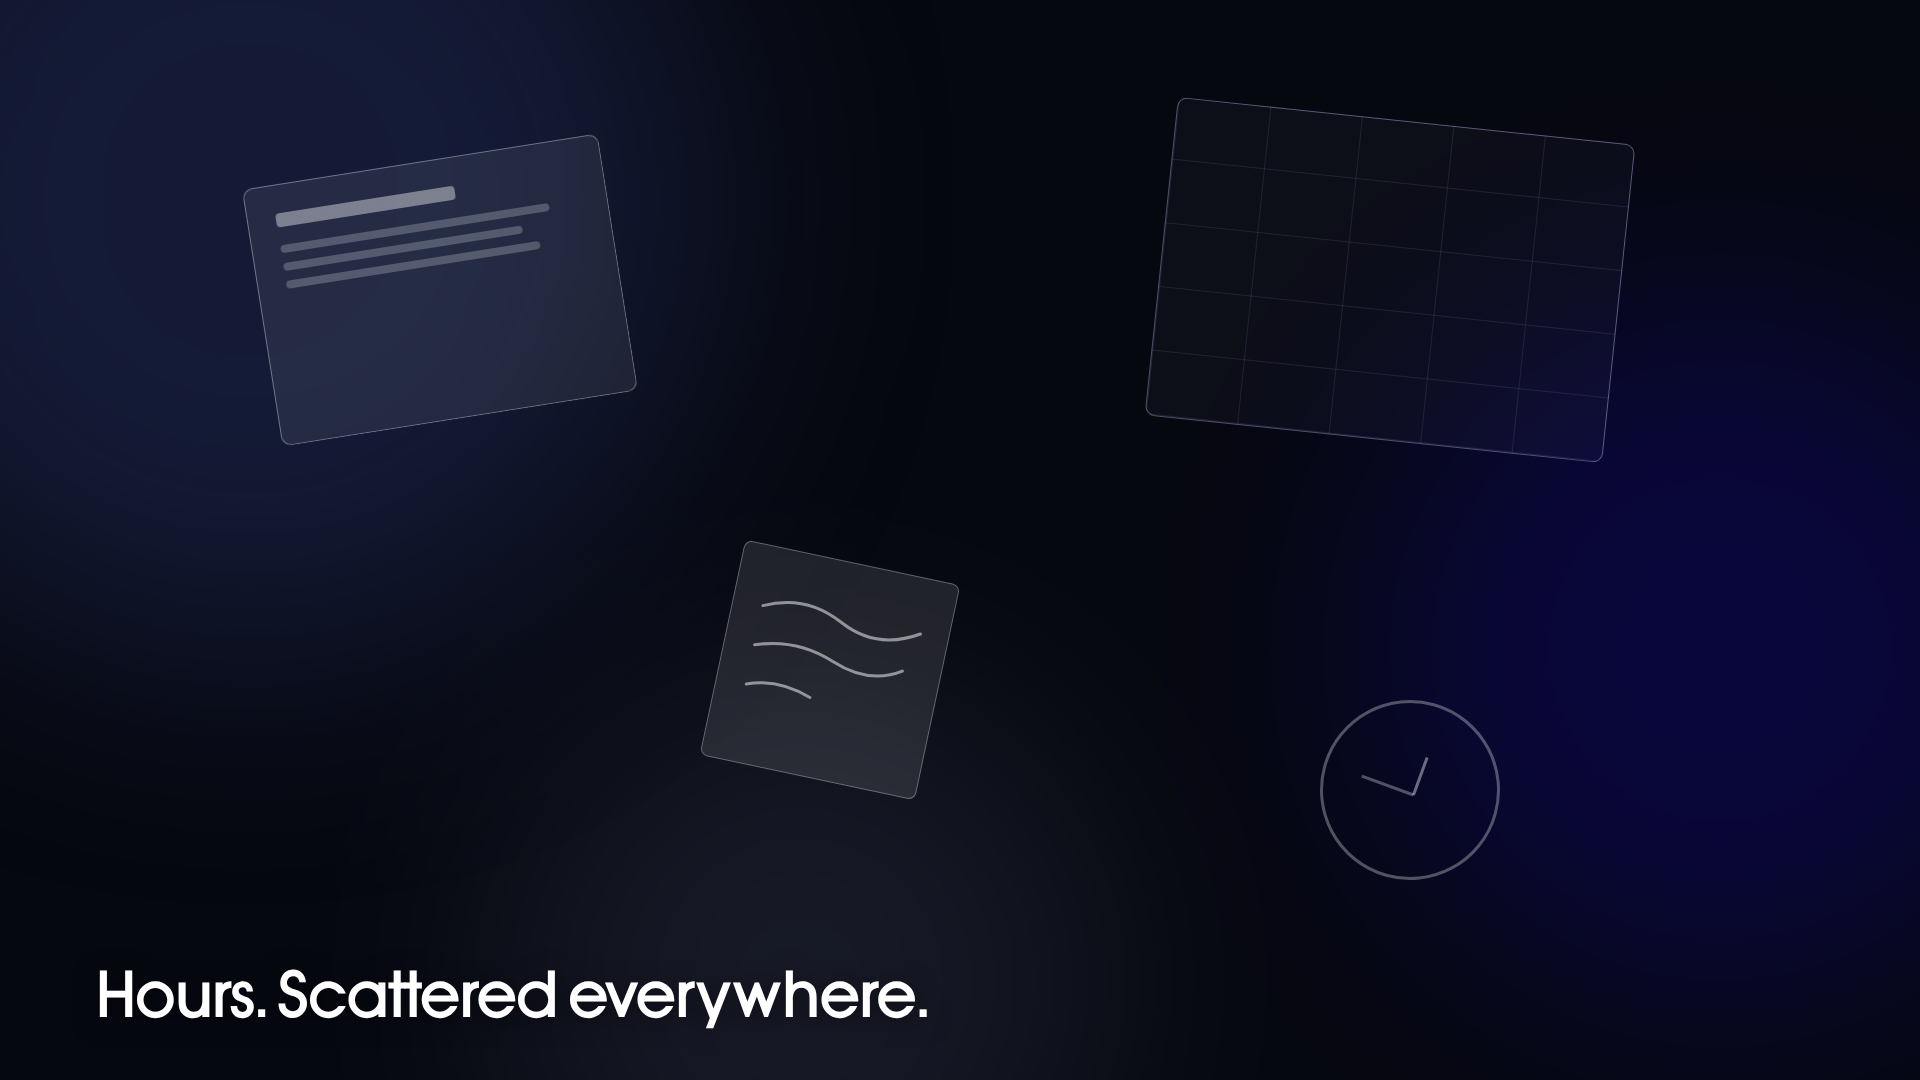
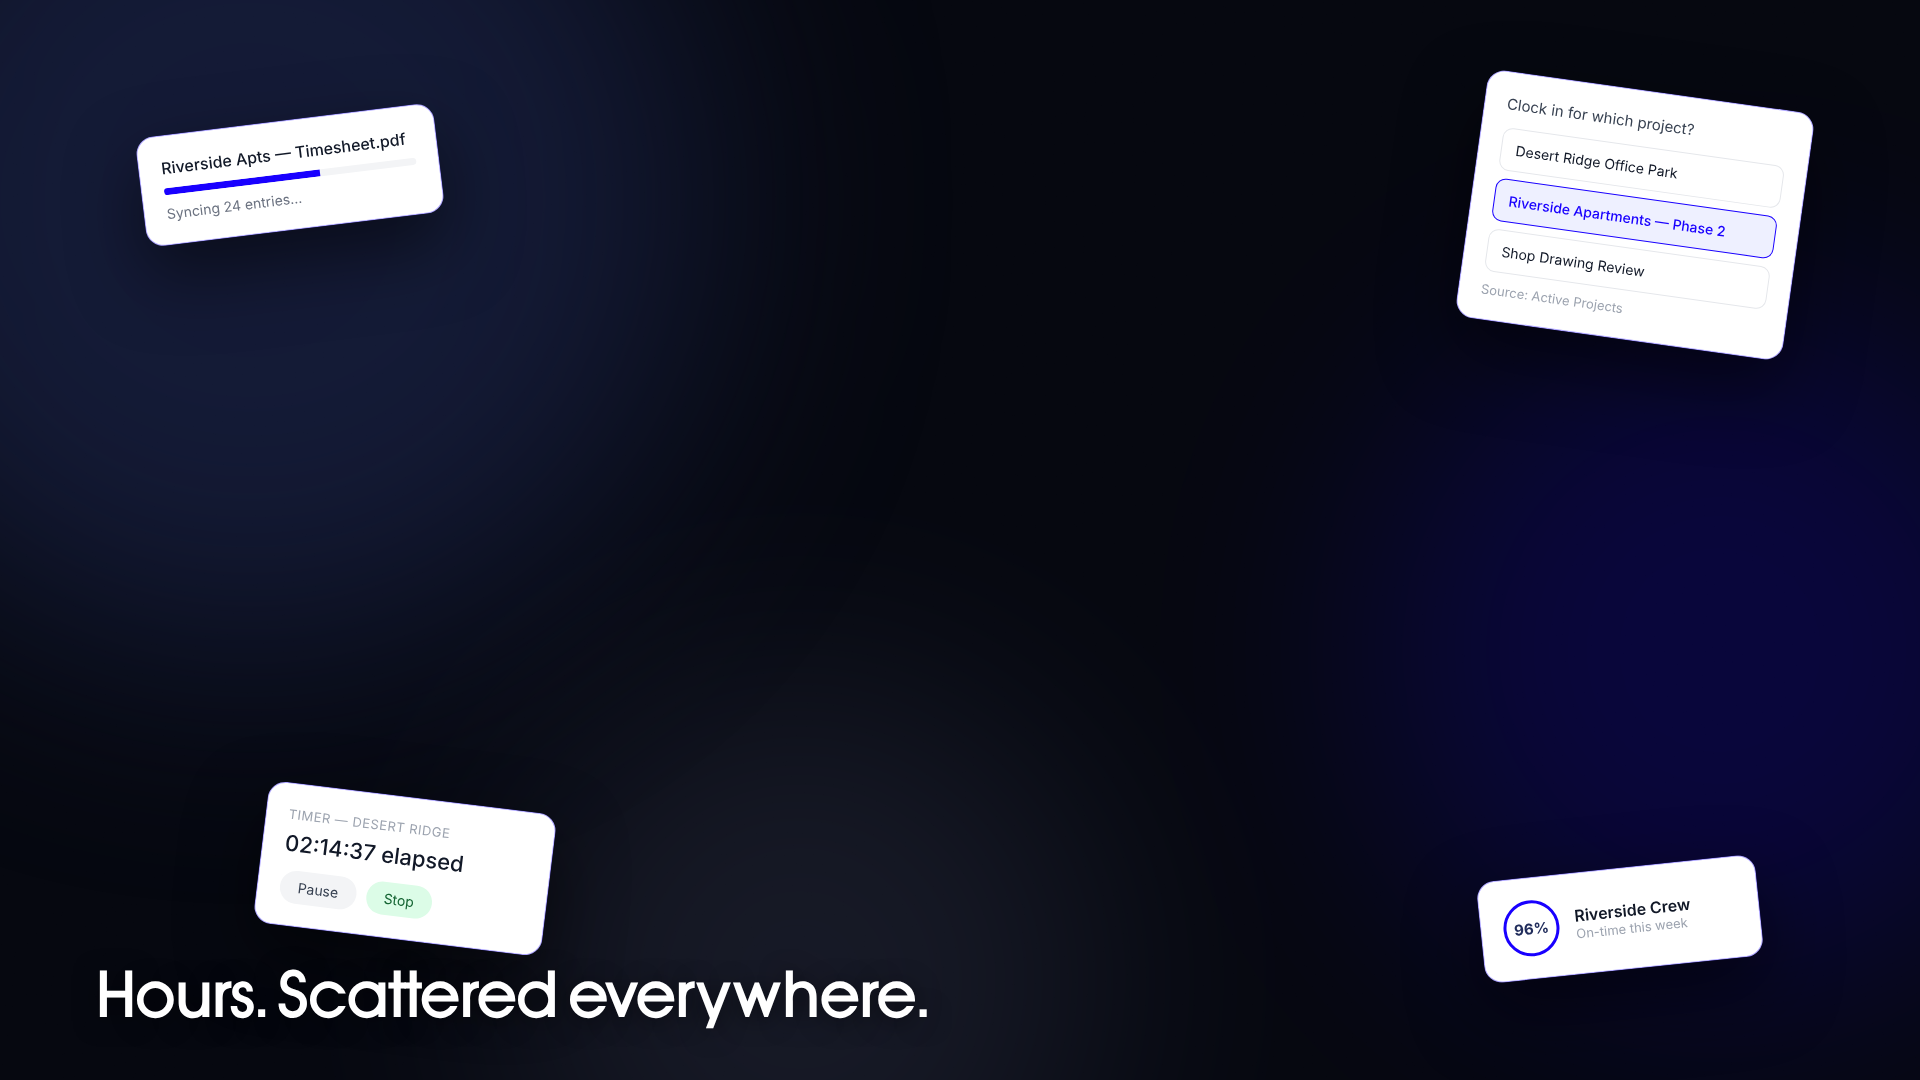
Rebuild frame 1 with real cards from the Landing page
Replaces the generic abstract fragments (blank timesheet, spreadsheet
grid, clock) with the actual 4 FloatCards from Landing.jsx -- the
same timesheet-sync, clock-in picker, running timer, and crew% cards
already on the site -- scattered apart and disconnected rather than
invented. Updated trans1 to match so the 1->2 cut still makes sense:
the same real cards shrink and converge into the forming logo.

Claude-Session: https://claude.ai/code/session_01LjFqdRZLAm9bhYw5sYSXD5

diff --git a/design/style-frames/frame1.html b/design/style-frames/frame1.html
@@ -5,38 +5,43 @@
   <div class="blob" style="width:700px;height:700px;right:-150px;top:300px;background:#1900ff;opacity:0.18;"></div>
   <div class="blob" style="width:600px;height:600px;left:500px;bottom:-200px;background:#aab3e8;opacity:0.1;"></div>
 
-  <!-- scattered paper timesheet fragment -->
-  <div style="position:absolute;left:260px;top:160px;width:360px;height:260px;background:rgba(255,255,255,0.07);border:1.5px solid rgba(255,255,255,0.35);border-radius:10px;transform:rotate(-9deg);backdrop-filter:blur(2px);">
-    <div style="padding:28px;">
-      <div style="width:60%;height:14px;background:rgba(255,255,255,0.4);border-radius:4px;margin-bottom:18px;"></div>
-      <div style="width:90%;height:8px;background:rgba(255,255,255,0.22);border-radius:4px;margin-bottom:10px;"></div>
-      <div style="width:80%;height:8px;background:rgba(255,255,255,0.22);border-radius:4px;margin-bottom:10px;"></div>
-      <div style="width:85%;height:8px;background:rgba(255,255,255,0.22);border-radius:4px;"></div>
+  <svg style="position:absolute;width:0;height:0"><filter id="g"><feTurbulence type="fractalNoise" baseFrequency="0.9" numOctaves="2" result="n"/><feColorMatrix in="n" type="matrix" values="0 0 0 0 1  0 0 0 0 1  0 0 0 0 1  0 0 0 0.05 0"/></filter></svg>
+  <div class="grain" style="filter:url(#g);"></div>
+
+  <!-- real product card: timesheet sync, drifting top-left, isolated -->
+  <div style="position:absolute;left:140px;top:120px;width:300px;background:#fff;border:1px solid rgba(25,0,255,.35);border-radius:18px;box-shadow:0 30px 70px rgba(0,0,0,0.5);padding:22px;transform:rotate(-7deg);font-family:'Inter',sans-serif;">
+    <div style="font-size:16px;font-weight:500;color:#111827;margin-bottom:10px;">Riverside Apts — Timesheet.pdf</div>
+    <div style="height:7px;background:#f3f4f6;border-radius:999px;overflow:hidden;"><div style="width:62%;height:100%;background:#1900ff;"></div></div>
+    <div style="font-size:14px;color:#6b7280;margin-top:10px;">Syncing 24 entries…</div>
+  </div>
+
+  <!-- clock-in card, drifting far upper-right, isolated -->
+  <div style="position:absolute;right:120px;top:90px;width:330px;background:#fff;border:1px solid rgba(25,0,255,.35);border-radius:18px;box-shadow:0 30px 70px rgba(0,0,0,0.5);padding:22px;transform:rotate(8deg);font-family:'Inter',sans-serif;">
+    <div style="font-size:15px;color:#374151;margin-bottom:14px;">Clock in for which project?</div>
+    <div style="border:1px solid #e5e7eb;border-radius:10px;padding:12px 14px;font-size:14px;margin-bottom:8px;color:#111827;">Desert Ridge Office Park</div>
+    <div style="border:1px solid #1900ff;background:#eef0ff;border-radius:10px;padding:12px 14px;font-size:14px;color:#1900ff;font-weight:500;margin-bottom:8px;">Riverside Apartments — Phase 2</div>
+    <div style="border:1px solid #e5e7eb;border-radius:10px;padding:12px 14px;font-size:14px;color:#111827;">Shop Drawing Review</div>
+    <div style="font-size:13px;color:#9ca3af;margin-top:10px;">Source: Active Projects</div>
+  </div>
+
+  <!-- timer card, drifting lower-left, isolated, far from the others -->
+  <div style="position:absolute;left:260px;bottom:140px;width:290px;background:#fff;border:1px solid rgba(25,0,255,.35);border-radius:18px;box-shadow:0 30px 70px rgba(0,0,0,0.5);padding:22px;transform:rotate(7deg);font-family:'Inter',sans-serif;">
+    <div style="font-size:13px;color:#9ca3af;margin-bottom:8px;letter-spacing:0.5px;">TIMER — DESERT RIDGE</div>
+    <div style="font-size:22px;font-weight:500;color:#111827;margin-bottom:14px;">02:14:37 elapsed</div>
+    <div style="display:flex;gap:10px;">
+      <span style="background:#f3f4f6;color:#374151;border-radius:999px;padding:8px 18px;font-size:14px;">Pause</span>
+      <span style="background:#dcfce7;color:#166534;border-radius:999px;padding:8px 18px;font-size:14px;">Stop</span>
     </div>
   </div>
 
-  <!-- spreadsheet grid fragment -->
-  <div style="position:absolute;right:300px;top:120px;width:460px;height:320px;border:1.5px solid rgba(170,179,232,0.4);border-radius:10px;transform:rotate(6deg);background:
-      repeating-linear-gradient(90deg, rgba(170,179,232,0.12) 0 1px, transparent 1px 92px),
-      repeating-linear-gradient(0deg, rgba(170,179,232,0.12) 0 1px, transparent 1px 64px),
-      rgba(170,179,232,0.04);"></div>
-
-  <!-- sticky note fragment -->
-  <div style="position:absolute;left:720px;top:560px;width:220px;height:220px;background:rgba(255,255,255,0.1);border:1.5px solid rgba(255,255,255,0.3);border-radius:8px;transform:rotate(12deg);">
-    <svg width="220" height="220" style="position:absolute;inset:0;opacity:0.5;">
-      <path d="M30 60 Q70 40 110 60 T190 55" stroke="#fff" stroke-width="3" fill="none" stroke-linecap="round"/>
-      <path d="M30 100 Q70 85 110 100 T180 95" stroke="#fff" stroke-width="3" fill="none" stroke-linecap="round"/>
-      <path d="M30 140 Q60 128 95 140" stroke="#fff" stroke-width="3" fill="none" stroke-linecap="round"/>
-    </svg>
+  <!-- crew % card, drifting far lower-right, isolated -->
+  <div style="position:absolute;right:160px;bottom:110px;width:280px;background:#fff;border:1px solid rgba(25,0,255,.35);border-radius:18px;box-shadow:0 30px 70px rgba(0,0,0,0.5);padding:22px;display:flex;align-items:center;gap:16px;transform:rotate(-6deg);font-family:'Inter',sans-serif;">
+    <div style="width:56px;height:56px;border-radius:999px;border:3px solid #1900ff;display:flex;align-items:center;justify-content:center;font-size:15px;font-weight:700;color:#212d5c;flex-shrink:0;">96%</div>
+    <div>
+      <div style="font-size:16px;font-weight:600;color:#111827;">Riverside Crew</div>
+      <div style="font-size:13px;color:#9ca3af;">On-time this week</div>
+    </div>
   </div>
-
-  <!-- clock/hours fragment -->
-  <div style="position:absolute;right:420px;bottom:200px;width:180px;height:180px;border:3px solid rgba(255,255,255,0.3);border-radius:50%;transform:rotate(-6deg);"></div>
-  <div style="position:absolute;right:505px;bottom:285px;width:3px;height:40px;background:rgba(255,255,255,0.4);transform:rotate(20deg);transform-origin:bottom;"></div>
-  <div style="position:absolute;right:505px;bottom:285px;width:3px;height:55px;background:rgba(255,255,255,0.3);transform:rotate(-70deg);transform-origin:bottom;"></div>
-
-  <svg style="position:absolute;width:0;height:0"><filter id="g"><feTurbulence type="fractalNoise" baseFrequency="0.9" numOctaves="2" result="n"/><feColorMatrix in="n" type="matrix" values="0 0 0 0 1  0 0 0 0 1  0 0 0 0 1  0 0 0 0.05 0"/></filter></svg>
-  <div class="grain" style="filter:url(#g);"></div>
 
   <div class="safe-caption">
     <div class="caption">Hours. Scattered everywhere.</div>

diff --git a/design/transitions/trans1.html b/design/transitions/trans1.html
@@ -8,16 +8,33 @@
   <svg style="position:absolute;width:0;height:0"><filter id="g"><feTurbulence type="fractalNoise" baseFrequency="0.9" numOctaves="2" result="n"/><feColorMatrix in="n" type="matrix" values="0 0 0 0 1  0 0 0 0 1  0 0 0 0 1  0 0 0 0.05 0"/></filter></svg>
   <div class="grain" style="filter:url(#g);"></div>
 
-  <!-- fragments mid-flight, shrunk, converging, fading -->
-  <div style="position:absolute;left:760px;top:260px;width:160px;height:115px;background:rgba(255,255,255,0.08);border:1.5px solid rgba(255,255,255,0.25);border-radius:8px;transform:rotate(-14deg) scale(0.8);opacity:0.5;filter:blur(1px);"></div>
-  <div style="position:absolute;right:720px;top:300px;width:200px;height:140px;border:1.5px solid rgba(170,179,232,0.3);border-radius:8px;transform:rotate(10deg) scale(0.7);opacity:0.4;filter:blur(1.5px);"></div>
-  <div style="position:absolute;left:880px;bottom:360px;width:100px;height:100px;background:rgba(255,255,255,0.08);border:1.5px solid rgba(255,255,255,0.22);border-radius:6px;transform:rotate(18deg) scale(0.6);opacity:0.35;filter:blur(1.5px);"></div>
+  <!-- the 4 real cards, shrunk, pulled inward, fading as they converge -->
+  <div style="position:absolute;left:760px;top:260px;width:170px;background:#fff;border-radius:10px;box-shadow:0 20px 50px rgba(0,0,0,0.5);padding:12px;transform:rotate(-10deg) scale(0.6);opacity:0.5;filter:blur(0.5px);font-family:'Inter',sans-serif;">
+    <div style="font-size:9px;color:#111827;margin-bottom:6px;">Riverside Apts — Timesheet.pdf</div>
+    <div style="height:4px;background:#f3f4f6;border-radius:999px;"><div style="width:62%;height:100%;background:#1900ff;"></div></div>
+  </div>
+
+  <div style="position:absolute;right:700px;top:280px;width:190px;background:#fff;border-radius:10px;box-shadow:0 20px 50px rgba(0,0,0,0.5);padding:12px;transform:rotate(11deg) scale(0.55);opacity:0.42;filter:blur(0.8px);font-family:'Inter',sans-serif;">
+    <div style="font-size:9px;color:#374151;margin-bottom:6px;">Clock in for which project?</div>
+    <div style="background:#eef0ff;border-radius:6px;padding:5px 8px;font-size:8px;color:#1900ff;">Riverside Apartments — Phase 2</div>
+  </div>
+
+  <div style="position:absolute;left:820px;bottom:300px;width:160px;background:#fff;border-radius:10px;box-shadow:0 20px 50px rgba(0,0,0,0.5);padding:12px;transform:rotate(9deg) scale(0.6);opacity:0.4;filter:blur(0.8px);font-family:'Inter',sans-serif;">
+    <div style="font-size:8px;color:#9ca3af;margin-bottom:4px;">TIMER — DESERT RIDGE</div>
+    <div style="font-size:13px;color:#111827;">02:14:37</div>
+  </div>
+
+  <div style="position:absolute;right:760px;bottom:320px;width:150px;background:#fff;border-radius:10px;box-shadow:0 20px 50px rgba(0,0,0,0.5);padding:12px;display:flex;align-items:center;gap:8px;transform:rotate(-8deg) scale(0.55);opacity:0.38;filter:blur(0.8px);font-family:'Inter',sans-serif;">
+    <div style="width:26px;height:26px;border-radius:999px;border:2px solid #1900ff;flex-shrink:0;"></div>
+    <div style="font-size:9px;color:#111827;">Riverside Crew</div>
+  </div>
 
   <!-- converging motion streaks -->
   <svg width="1920" height="1080" style="position:absolute;inset:0;opacity:0.5;">
-    <line x1="760" y1="300" x2="960" y2="540" stroke="#fff" stroke-width="2" stroke-dasharray="4 10" opacity="0.4"/>
-    <line x1="1180" y1="340" x2="960" y2="540" stroke="#aab3e8" stroke-width="2" stroke-dasharray="4 10" opacity="0.4"/>
-    <line x1="920" y1="760" x2="960" y2="560" stroke="#fff" stroke-width="2" stroke-dasharray="4 10" opacity="0.4"/>
+    <line x1="845" y1="310" x2="960" y2="540" stroke="#fff" stroke-width="2" stroke-dasharray="4 10" opacity="0.4"/>
+    <line x1="1220" y1="340" x2="960" y2="540" stroke="#aab3e8" stroke-width="2" stroke-dasharray="4 10" opacity="0.4"/>
+    <line x1="900" y1="760" x2="960" y2="560" stroke="#fff" stroke-width="2" stroke-dasharray="4 10" opacity="0.4"/>
+    <line x1="1070" y1="770" x2="960" y2="560" stroke="#aab3e8" stroke-width="2" stroke-dasharray="4 10" opacity="0.4"/>
   </svg>
 
   <!-- emerging glow / proto-logo at center -->
